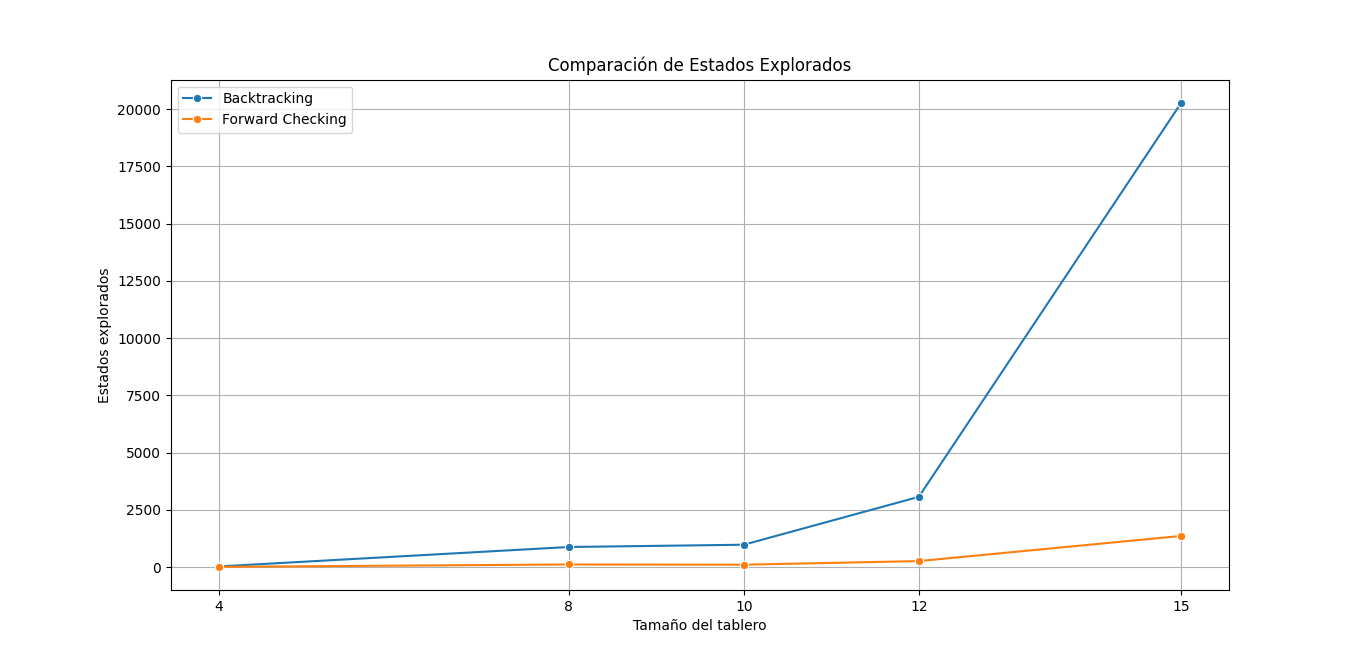
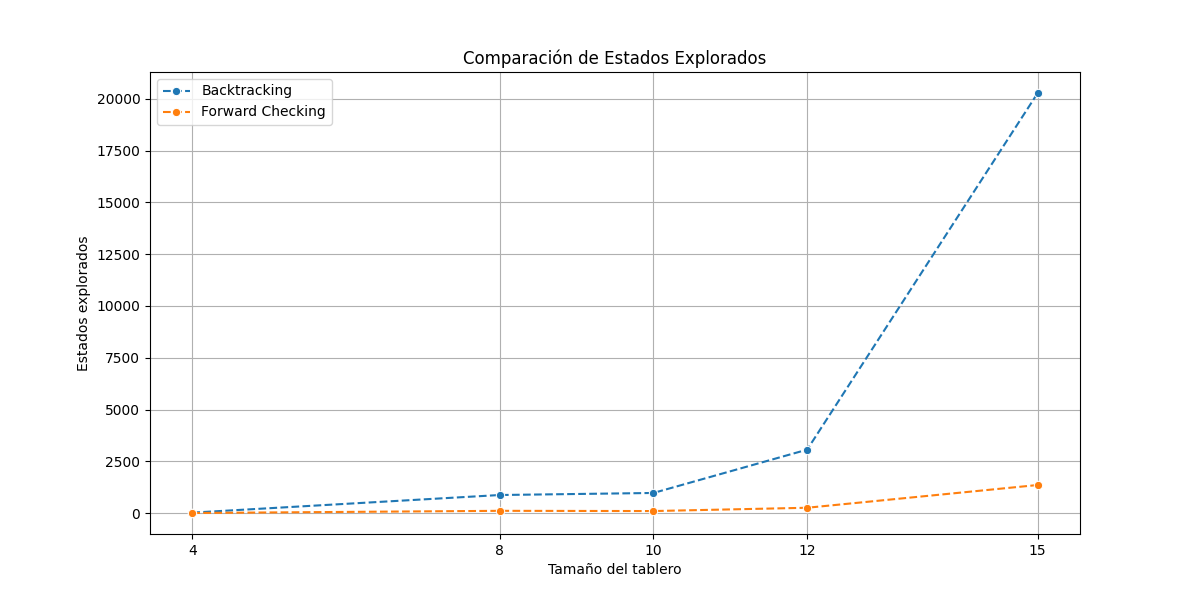
Reporte terminado tp6

diff --git a/tp6-csp/code/plot_utils.py b/tp6-csp/code/plot_utils.py
@@ -49,8 +49,8 @@ class PlotUtils:
 
         plt.figure(figsize=(12, 6))
         # Usar sizes_backtracking ya que asumo que ambos deben ser iguales
-        sns.lineplot(x=sizes_backtracking, y=tiempos_backtracking, label='Backtracking', marker='o')
-        sns.lineplot(x=sizes_forward, y=tiempos_forward, label='Forward Checking', marker='o')
+        sns.lineplot(x=sizes_backtracking, y=tiempos_backtracking, label='Backtracking', marker='o', linestyle='--')
+        sns.lineplot(x=sizes_forward, y=tiempos_forward, label='Forward Checking', marker='o', linestyle='--')
 
         plt.xticks(sizes_backtracking)  # Asegurarse de que todos los tamaños se muestran en el eje X
         plt.title('Comparación de Tiempos de Ejecución')
@@ -72,8 +72,8 @@ class PlotUtils:
 
         plt.figure(figsize=(12, 6))
         # Usar sizes_backtracking ya que asumo que ambos deben ser iguales
-        sns.lineplot(x=sizes_backtracking, y=estados_backtracking, label='Backtracking', marker='o')
-        sns.lineplot(x=sizes_forward, y=estados_forward, label='Forward Checking', marker='o')
+        sns.lineplot(x=sizes_backtracking, y=estados_backtracking, label='Backtracking', marker='o', linestyle='--')
+        sns.lineplot(x=sizes_forward, y=estados_forward, label='Forward Checking', marker='o', linestyle='--')
 
         plt.xticks(sizes_backtracking)  # Asegurarse de que todos los tamaños se muestran en el eje X
         plt.title('Comparación de Estados Explorados')

diff --git a/tp6-csp/tp6-reporte.md b/tp6-csp/tp6-reporte.md
@@ -59,10 +59,26 @@ son consistentes con ese valor de X<sub>k</sub>.
 
 ## Ejercicio 5
 
-### Demostrar la correctitud del algoritmo CSP para ´arboles estructurados
+### Demostrar la correctitud del algoritmo CSP para árboles estructurados
 
 La 2-consistencia nos dice que para cada par de variables X<sub>i</sub> , X<sub>j</sub> conectadas por una restricción, entonces para cada valor del dominio de X<sub>i</sub> existe al menos un valor en el dominio X<sub>j</sub> que satisface la restricción entre estos.
 
 En un árbol, la propiedad que nos interesa es que no tiene ciclos. Esto significa que una vez que asignamos valores a las variables no vamos a tener caminos "cíclicos" que nos provoquen una inconsistencia. Entonces, una vez que una variable sea consistente con su vecino (nodo hijo), esa consistencia no se verá afectada por la asignaciones posteriores. 
 
 Entonces, para demostrar la n-consistencia en un árbol vamos a elegir un nodo "raíz" y vamos a realizar un recorrido hacia abajo, aplicando la 2-consistencia en cada nodo, lo que garantiza que para cualquier valor asignado a una variable, existe al menos un valor compatible en sus nodos hijos. Como el grafo no tiene ciclos, no necesitamos preocuparnos de que las asignaciones en otros subárboles interfieran con las consistencias previamente establecidas. Esto implica que la 2-consistencia es **suficiente** para garantizar la n-consistencia en un CSP basado en árboles.
+
+## Ejercicio 6 y 7
+
+En estos ejercicios se implementaron los algoritmos de Backtracking y Forward Checking para resolver el problema de las N-reinas, considerando tableros de tamaño 4, 8, 10, 12 y 15. En ambos algoritmos, la evaluación de soluciones comienza desde la columna 0, fila 0 de cada tablero.
+
+### Cantidad de Estados Explorados
+![Imagen 1](./imagenes/estados.png)
+
+Forward Checking explora significativamente menos estados que Backtracking, independientemente del tamaño del tablero. Esto se debe a la capacidad de Forward Checking para reducir el dominio de posibles ubicaciones, eliminando aquellas que no cumplen con las restricciones del problema en función de cada movimiento realizado. Por otro lado, Backtracking prueba todas las combinaciones posibles, sin reducir el dominio.
+
+### Tiempos de Ejecución
+![Imagen 2](./imagenes/tiempos.png)
+
+Podemos observar que Forward Checking requiere mucho menos tiempo para encontrar la solución debido a la menor cantidad de estados explorados. 
+
+Además, al comparar Forward Checking con otros algoritmos como Hill Climbing, Simulated Annealing y Genetic Algorithm, se destaca que Forward Checking ofrece el mejor rendimiento. Esto se debe a que en el problema de N-reinas, al conocer de antemano las restricciones, se puede encontrar una solución de manera determinista. En contraste, los algoritmos anteriores tendían a quedar atrapados en óptimos locales, como se observó en el TP5. Forward Checking garantiza siempre encontrar una solución.
